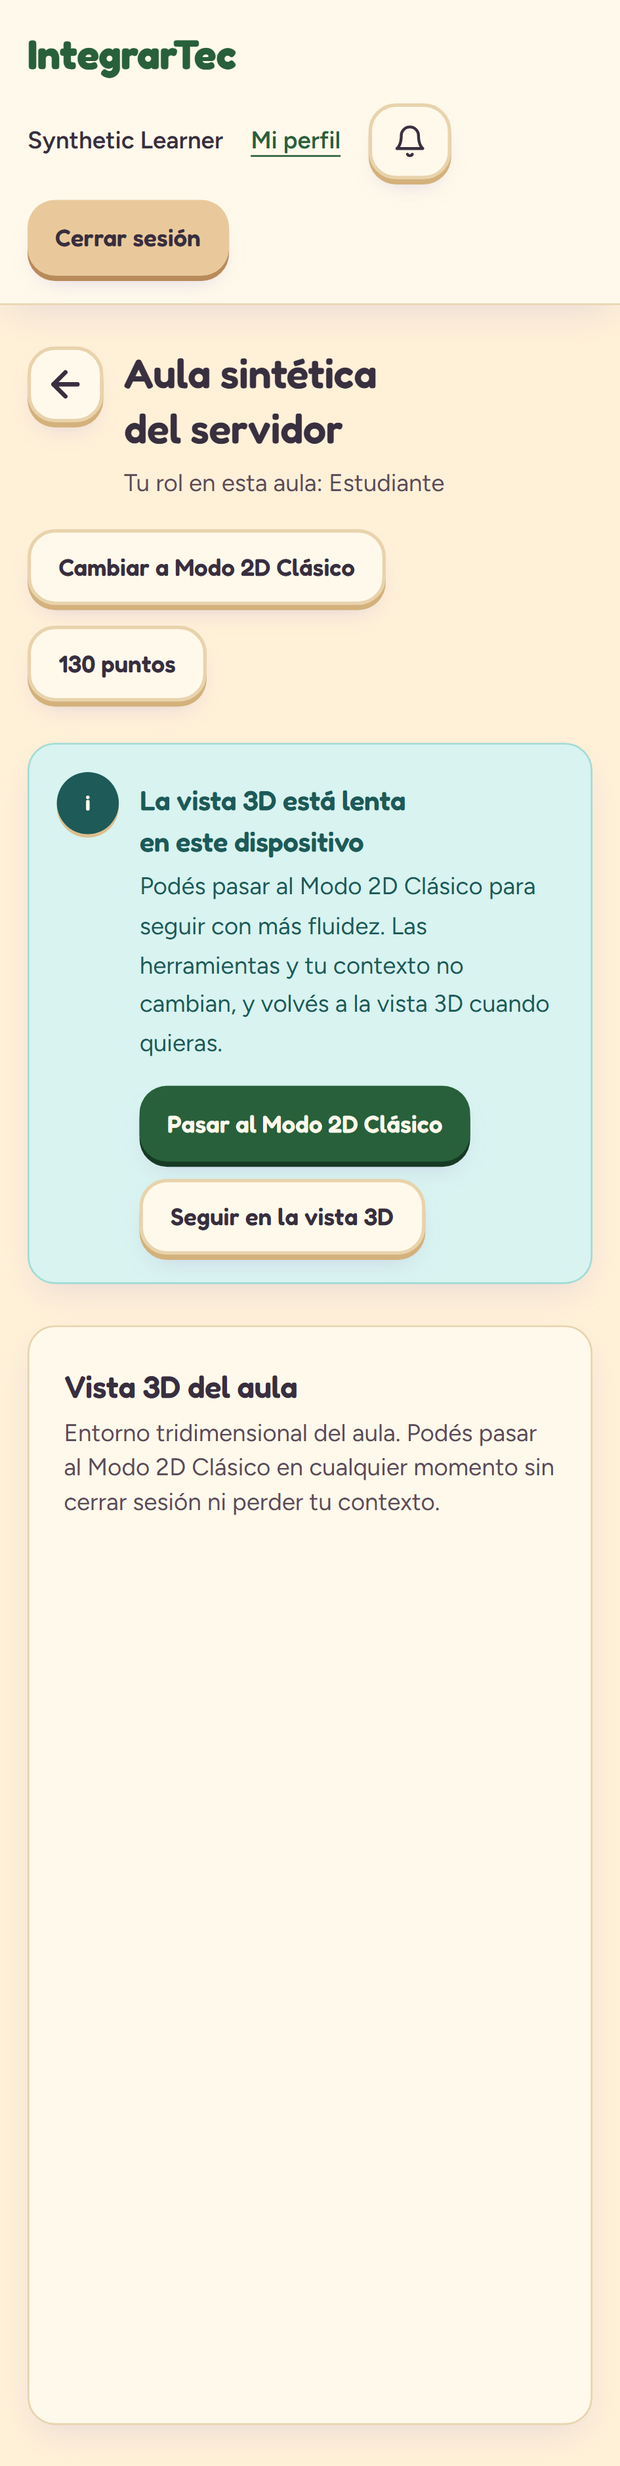
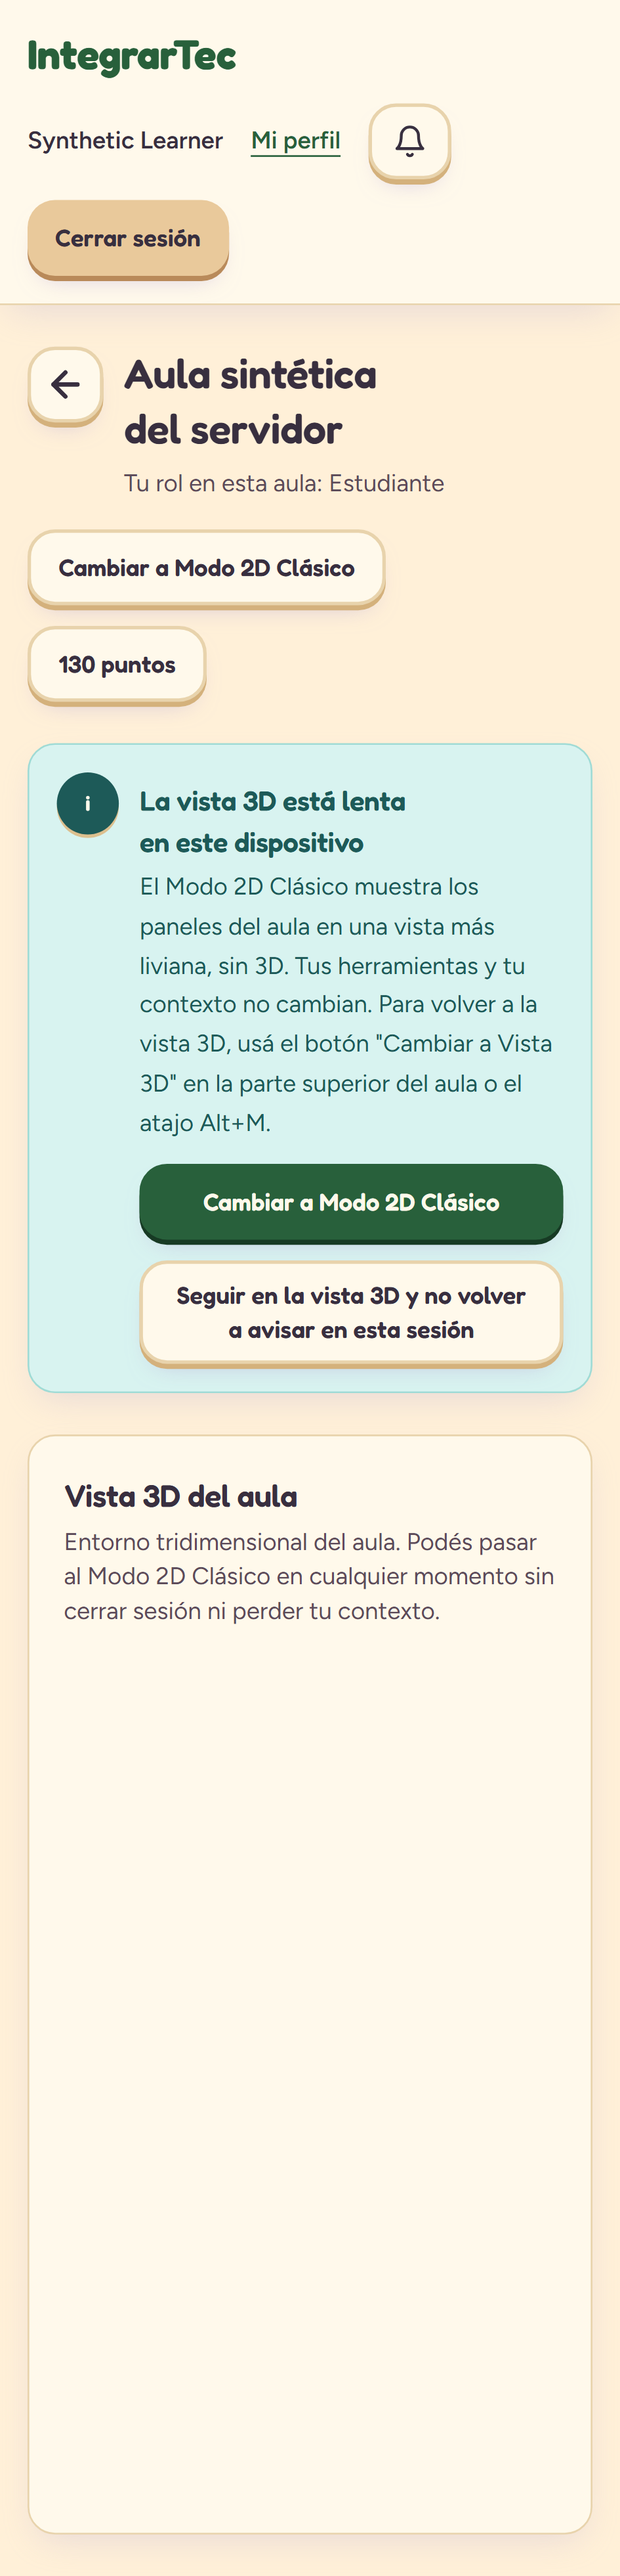
docs(world): re-measure the performance monitor on the classroom scene
Record draw calls, triangles and fps on the populated scene, update the FD8 open item, document the overlay as runtime-gated, refresh trackers and evidence screenshots.

diff --git a/e2e/performance-offer.spec.ts b/e2e/performance-offer.spec.ts
@@ -153,11 +153,9 @@ async function measuredFps(page: Page): Promise<number> {
 }
 
 /**
- * Real frame source for the classroom 3D stage (#56). The stage scene
- * currently holds no continuously animating content and R3F runs with
- * `frameloop="demand"`, so mouse motion over the canvas cannot produce
- * frames (an empty scene raycasts to nothing and pointermove without
- * intersections never invalidates). The app's own re-frame-on-resize path
+ * Real frame source for the classroom 3D stage (#56). The stage scene holds
+ * no continuously animating content and R3F runs with `frameloop="demand"`,
+ * so nothing renders by itself between interactions. The app's own re-frame-on-resize path
  * (`CameraFraming` in `world-canvas.tsx` -> `invalidate()`) renders one real
  * frame per viewport resize, and the probe samples every rendered frame, so
  * alternating the viewport size drives a sustained, controlled-low cadence
@@ -248,7 +246,6 @@ test('offers 2D Classic Mode under sustained low fps and keeps the 3D stage when
     const banner = offerBanner(page);
     await expect(banner).toBeVisible({ timeout: 45_000 });
     await expect(banner).toHaveAttribute('role', 'status');
-    await expect(banner).toHaveAttribute('aria-live', 'polite');
 
     // The app never switches modes by itself: the 3D stage is still on screen.
     await expect(stage3d(page)).toBeVisible();

diff --git a/src/features/world/performance-stats-overlay.tsx b/src/features/world/performance-stats-overlay.tsx
@@ -13,9 +13,10 @@ export type { CanvasPerformanceStats } from './performance-monitor';
 /**
  * Dev-time stats overlay (issue #56 S3): reports fps, draw calls, triangles
  * and texture/GPU memory estimates against the FD8 budget. Developer-facing
- * diagnostics, so the copy is English and `aria-hidden` — it never ships in
- * production builds and never becomes a user-facing announcement
- * (`rules/observability-and-privacy.md`).
+ * diagnostics, so the copy is English and `aria-hidden` — it is runtime-gated
+ * by `appEnv !== 'production'` (rendered as `null` with no interval in
+ * production; the component stays in the bundle) and never becomes a
+ * user-facing announcement (`rules/observability-and-privacy.md`).
  */
 const OVERLAY_REFRESH_MS = 500;
 

diff --git a/docs/3d-performance-monitor.md b/docs/3d-performance-monitor.md
@@ -4,14 +4,14 @@ The classroom 3D stage measures its own rendered frame rate and, when a device c
 
 ## How it measures
 
-| Piece                         | File                                                  | Role                                                                                                                            |
-| ----------------------------- | ----------------------------------------------------- | ------------------------------------------------------------------------------------------------------------------------------- |
-| `FpsSampler`                  | `src/features/world/performance-monitor.ts`           | Pure rolling-window sampler fed with frame timestamps (no React, no three.js; tested with a simulated frame source).           |
-| `PerformanceProbeRuntime`     | `src/features/world/performance-monitor.ts`           | Combines the sampler, throttled stats publishing, and a one-shot "sustained low" trigger that re-arms after the rate recovers. |
-| `PerformanceProbe`            | `src/features/world/performance-probe.tsx`            | Renders inside the R3F `Canvas`, feeds every rendered frame (`useFrame`) and reads draw calls/triangles from `gl.info`.         |
-| `PerformanceStatsOverlay`     | `src/features/world/performance-stats-overlay.tsx`    | Dev-time overlay (English, `aria-hidden`, absent in `production` builds) reporting fps, draw calls, triangles, GPU memory.      |
-| `usePerformanceOfferStore`    | `src/features/classrooms/performance-offer-store.ts`  | In-memory per-session state `idle \| offering \| declined \| accepted`, reset on logout.                                        |
-| `PerformanceOfferBanner`      | `src/features/classrooms/performance-offer-banner.tsx` | Non-blocking es-AR banner (`role="status"`, `aria-live="polite"`); rendered by the workspace in 3D mode only.                 |
+| Piece                      | File                                                   | Role                                                                                                                                                                                                                     |
+| -------------------------- | ------------------------------------------------------ | ------------------------------------------------------------------------------------------------------------------------------------------------------------------------------------------------------------------------ |
+| `FpsSampler`               | `src/features/world/performance-monitor.ts`            | Pure rolling-window sampler fed with frame timestamps (no React, no three.js; tested with a simulated frame source).                                                                                                     |
+| `PerformanceProbeRuntime`  | `src/features/world/performance-monitor.ts`            | Combines the sampler, throttled stats publishing, and a one-shot "sustained low" trigger that re-arms after the rate recovers.                                                                                           |
+| `PerformanceProbe`         | `src/features/world/performance-probe.tsx`             | Renders inside the R3F `Canvas`, feeds every rendered frame (`useFrame`) and reads draw calls/triangles from `gl.info`.                                                                                                  |
+| `PerformanceStatsOverlay`  | `src/features/world/performance-stats-overlay.tsx`     | Dev-time overlay (English, `aria-hidden`, runtime-gated by `appEnv !== 'production'`: rendered as `null` with no interval in production, but still part of the bundle) reporting fps, draw calls, triangles, GPU memory. |
+| `usePerformanceOfferStore` | `src/features/classrooms/performance-offer-store.ts`   | In-memory per-session state `idle \| offering \| declined \| accepted`, reset on logout.                                                                                                                                 |
+| `PerformanceOfferBanner`   | `src/features/classrooms/performance-offer-banner.tsx` | Non-blocking es-AR banner (`role="status"`, implicitly polite); rendered by the workspace in 3D mode only.                                                                                                               |
 
 ### Thresholds and window (defined here, per the issue)
 
@@ -30,18 +30,18 @@ The classroom 3D stage measures its own rendered frame rate and, when a device c
 
 ## Reference-scene measurements
 
-Recorded by `e2e/performance-offer.spec.ts` (Chromium via Playwright, 1280 px desktop project; mobile project for the 360 px capture) against the synthetic classroom workspace route. The classroom stage currently contains **no animating content and no meshes**, so these are the numbers of the empty stage, not of a populated classroom; re-measure when the scene gains content ([3D assets](./3d-assets.md)).
+Recorded on 2026-11-21 by `e2e/performance-offer.spec.ts` (Playwright 1.64.1, headless Chromium: `desktop` project at 1280 px and `mobile` project, Pixel 7 emulation, at 360 px) against the synthetic classroom workspace route, using the `build:e2e` (`showcase`) build served by `vite preview`. The stage is the **populated classroom scene** (`ClassroomWorld`, after merging `develop` with #112). Frames come from the app's own resize re-frame path in headless Chromium on a development workstation, so the fps figures describe that harness, not a school device.
 
-| Condition                                              | fps (rolling mean) | Draw calls | Triangles | GPU memory est. | Offer          |
-| ------------------------------------------------------ | ------------------ | ---------- | --------- | --------------- | -------------- |
-| Unthrottled, desktop, resize-driven frames (~10 s)     | 33.4               | 0 / 100    | 0 / 200000 | 0 B / 256 MB   | Not shown      |
-| CPU throttled 20x, desktop 1280 px                     | 6.8                | 0 / 100    | 0 / 200000 | 0 B / 256 MB   | Shown          |
-| CPU throttled 20x, mobile emulation 360 px             | 4.3                | 0 / 100    | 0 / 200000 | 0 B / 256 MB   | Shown          |
+| Condition                                           | fps (rolling mean) | Draw calls | Triangles      | GPU memory est. | Offer                           |
+| --------------------------------------------------- | ------------------ | ---------- | -------------- | --------------- | ------------------------------- |
+| Unthrottled, desktop 1280 px, resize frames (~10 s) | 6.8                | 56 / 100   | 66206 / 200000 | 3 MB / 256 MB   | Overlay reports "sustained low" |
+| CPU throttled 20x, desktop 1280 px                  | 3.8                | 56 / 100   | 66206 / 200000 | 3 MB / 256 MB   | Shown                           |
+| CPU throttled 20x, mobile emulation 360 px          | 4.5                | 56 / 100   | 66206 / 200000 | 3 MB / 256 MB   | Shown                           |
 
-Readings vary between runs (earlier runs read 30.4 to 30.7 unthrottled, 6.5 to 8.1 throttled desktop and 6.0 to 6.7 throttled mobile); the values above are from the final recorded run.
+The overlay also reports `0` textures and `17` geometries. The scene is within the FD8 geometry limits (56 of 100 draw calls, about 33% of the triangle limit, 3 MB of 256 MB). The earlier empty-stage numbers (33.4 fps unthrottled, 0 draw calls, 0 triangles) no longer apply.
 
 > [!NOTE]
-> The empty demand-loop stage renders no frames by itself. The e2e drives real rendered frames through the app's own re-frame-on-resize path (`CameraFraming` → `invalidate()`), so the unthrottled fps is a property of that resize cadence, not a device benchmark. The throttled rows show that a slow device crosses the threshold and the offer appears; they are not a claim about any specific school machine. Draw calls and triangles read `0` because the stage has no meshes yet.
+> The demand-loop stage renders no frames by itself, so the e2e drives real rendered frames through the app's own re-frame-on-resize path (`CameraFraming` → `invalidate()`). Each frame is a full render of the populated scene plus a Playwright viewport change, so the unthrottled 6.8 fps measures that resize cadence in headless Chromium, not steady-state rendering. Because the offer triggers on any sustained rendered cadence below 24 fps, even that synthetic cadence is flagged. Steady-state fps on real hardware has not been measured yet.
 
 ## Tests
 

diff --git a/changelogs/tracker-alejo.md b/changelogs/tracker-alejo.md
@@ -11,12 +11,12 @@
 
 ## 2026-11-20 — Runtime performance monitor and 2D Classic Mode offer (#56)
 
-- **Status:** completed locally (branch `feat/56-performance-monitor`, worktree `../integratec-wt-56`, merged with `origin/develop` @ `648d03c`; not pushed, no PR yet; awaiting the user's visual review)
+- **Status:** in review on [PR #114](https://github.com/Agustin742/integratec-final-front/pull/114) against `develop`; review fixes applied on the branch `feat/56-performance-monitor`
 - **Area / files:** `src/features/world/performance-monitor.ts`, `performance-probe.tsx`, `performance-stats-overlay.tsx` (+ tests, `world-canvas`/stage wiring), `src/features/classrooms/performance-offer-store.ts`, `performance-offer-banner.tsx`, `classroom-workspace.tsx`, `messages.ts` (+ tests), `src/app/router/app-shell.tsx` (logout reset), `src/test/setup.ts`, `e2e/performance-offer.spec.ts`, `docs/3d-performance-monitor.md`, `docs/technical-justification.md` (FD8), `docs/ai-usage.md`, `docs/assets/classroom-workspace/performance-offer-{1280,360}.png`
 - **Change:** [Issue #56](https://github.com/Agustin742/integratec-final-front/issues/56) (FD8): a rolling-window fps sampler over rendered frames (`8000 ms` window, offer when mean `< 24 fps`), a dev-only stats overlay against the FD8 limits, and a non-blocking es-AR offer banner (`role="status"`) to switch to 2D Classic Mode. Accept calls the HU-ESP-003 mode action; decline is remembered for the session; the app never switches by itself.
 - **Reason:** Detect devices that cannot sustain the 3D budget and offer, never force, the 2D Classic Mode.
 - **Verification:** Node v24.15.0 with `npm_config_engine_strict=false`: lint (pre-existing `jsx-ast-utils` warning), typecheck, build, `security:check`, `format:check`, `check_docs.py` and `git diff --check` pass; full vitest 1341/1344 with 3 failures (pre-existing `materials` class, see the ai-usage entry); `e2e/performance-offer.spec.ts` 5/5 (1 skipped by design) with screenshots. Measured on the empty reference stage: 33.4 fps unthrottled (resize-driven), 6.8 fps (desktop) and 4.3 fps (mobile) at 20x CPU throttle with the offer shown; 0 draw calls / 0 triangles. Other Playwright specs fail locally on the unmocked `GET /chats` from the chat dock merged with #113 (not changed here, not re-verified on clean `develop`). The Python CI `unittest` suite was not run on this Windows workstation.
-- **Next step:** User reviews the running frontend; then push the branch and open the PR (re-sync with `develop` first).
+- **Next step:** CI green on PR #114 and merge.
 
 ## 2026-11-19 — Implement real-time classroom chat panel (#51)
 

diff --git a/changelogs/tracker-agustin.md b/changelogs/tracker-agustin.md
@@ -1,5 +1,14 @@
 # Tracker — Agustin
 
+## 2026-11-21 — Review and fixes on PR #114 (#56, runtime performance monitor)
+
+- **Status:** completed (pending CI and merge of PR #114)
+- **Area / files:** `src/features/world/` (performance monitor, probe, overlay, GPU estimate), `src/features/classrooms/` (performance offer banner, workspace, messages), `e2e/performance-offer.spec.ts`, `docs/3d-performance-monitor.md`, `docs/technical-justification.md`, `docs/assets/classroom-workspace/performance-offer-{1280,360}.png`, `changelogs/tracker-alejo.md`
+- **Change:** Merged `develop` (`3db911e`; the performance probe is now a child of `ClassroomWorld`, which forwards `children`). Review fixes: `400dc16` estimates GPU memory only on a stats refresh instead of every frame; `8545735` offers 2D mode on very slow devices (`minDecisionSpanMs` of 6000 ms); `1889277` banner behavior (focus returns after a decline, a manual 2D switch resolves the offer, full-width mobile buttons, clearer copy). Re-measure and docs (this commit): numbers now come from the populated classroom scene (56 draw calls, 66206 triangles, about 3 MB GPU estimate; 3.8 fps desktop and 4.5 fps mobile at 20x CPU throttle with the offer shown), the FD8 open item is updated, and the overlay is documented as runtime-gated by `appEnv !== 'production'` instead of removed from production bundles.
+- **Reason:** Review findings on PR #114; the earlier numbers described the empty stage.
+- **Verification:** Per-task strict TDD, `--changed origin/develop`, lint, typecheck, build, `security:check`; native review approved on each task commit; `e2e/performance-offer.spec.ts` 5 passed, 1 skipped by design (desktop and mobile).
+- **Next step:** CI green and merge.
+
 ## 2026-11-20 — Review and fixes on PR #113 (#51, classroom chat)
 
 - **Status:** completed (pending CI and Agustin's visual check before merging PR #113)

diff --git a/docs/technical-justification.md b/docs/technical-justification.md
@@ -177,7 +177,7 @@ The backend repository records decisions D1-D12 in its `docs/technical-justifica
 - **Trade-offs:** Less visual richness and tighter asset authoring; the runtime measurement adds code and needs tuning.
 - **Affected contracts:** [3D world and camera](../rules/3d-world-and-camera.md), [Art direction](../rules/art-direction.md), [Classrooms, roles, and permissions](../rules/classrooms-and-roles.md) for the 2D mode.
 - **Runtime measurement (#56):** The offer trigger samples the rendered frame cadence of the demand-loop canvas over a rolling `8000 ms` window (at least `30` frames) and fires when the mean is below `24 fps` (80% of the `30 fps` conservative target); the `60 fps` mid-range figure is reported by the dev overlay but never triggers the offer. A decline is remembered per app session. Details and measured reference-scene numbers: [3D performance monitor](./3d-performance-monitor.md).
-- **Open:** The budget numbers are limits to verify; the reference scene is currently empty (0 draw calls, 0 triangles), so the measured numbers must be repeated when the classroom scene gains content.
+- **Open:** The budget numbers are limits to verify. Measured on 2026-11-21 on the populated classroom scene (headless Chromium, resize-driven frames): 56 draw calls (limit 100), 66206 triangles (limit 200000) and about 3 MB estimated GPU memory (limit 256 MB), so the geometry budget holds today. Still to verify: steady-state fps on real integrated-GPU school hardware (the recorded fps comes from a resize-driven headless harness), and a re-measurement whenever the scene gains content.
 - **Approval:** Approved by Agustin (decision owner) on 2026-11-02.
 
 ### FD9. Contract mocks
